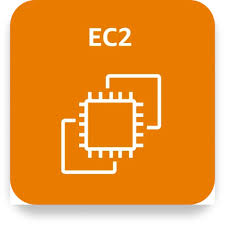
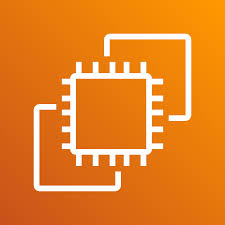
uploads
images, updates: index.html

diff --git a/index.html b/index.html
@@ -162,7 +162,7 @@
 
         <article>
             <div class="project-header">
-                <img src="Images/EC2.jpg" alt="EC2 Icon" class="service-icon" style="width: 40px; height: 40px;">  
+                <img src="Images/EC2.png" alt="EC2 Icon" class="service-icon" style="width: 40px; height: 40px;">  
                 <h3>AWS-EC2-P2</h3>
             </div>
             <a href="https://deanmtd.github.io/AWS-EC2-Deployment-Projects-P2/" target="_blank">View Repository</a>
